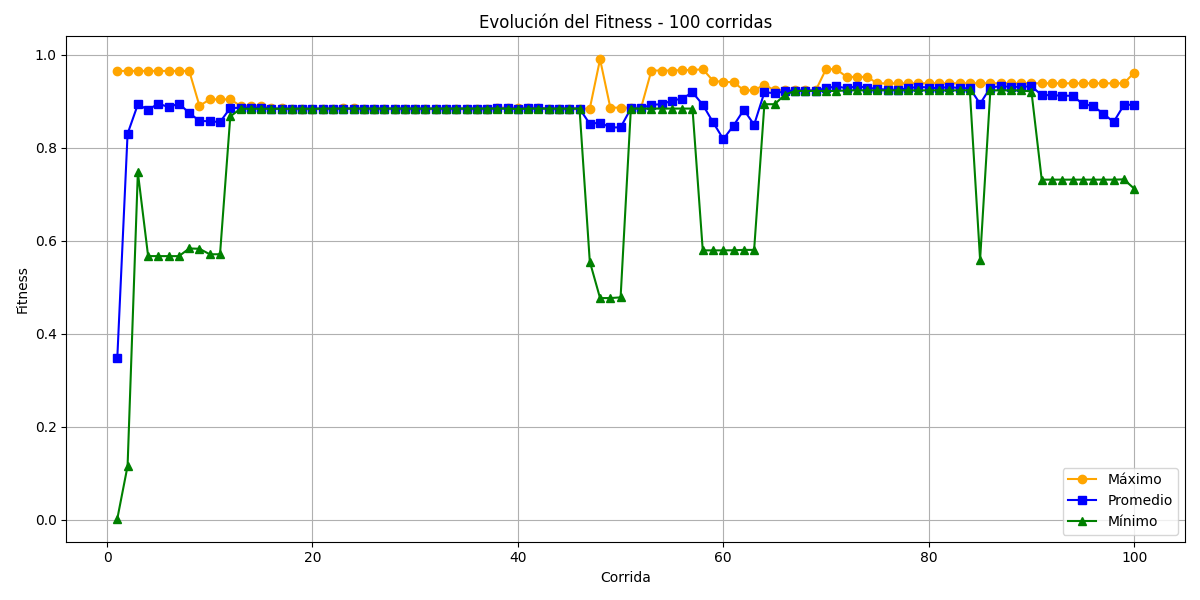
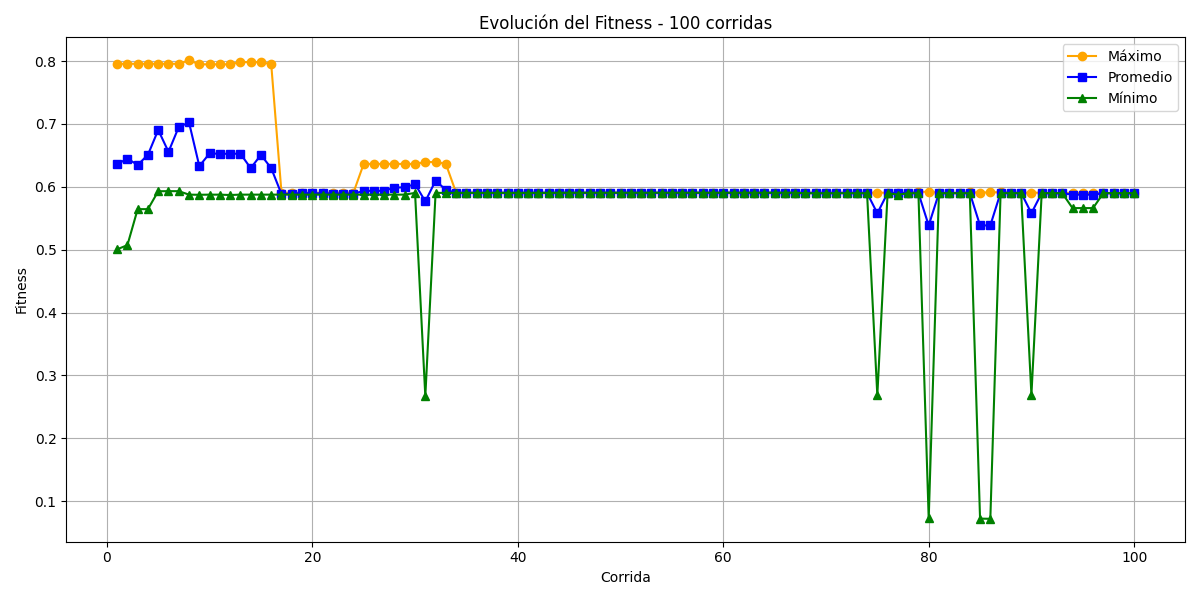
Corrección de errores
Agrego calculo de valores_funcion_objetivos de los hijos al hacer el return de evolve (estabamos pasando los hijos con los valores función objetivo de los padres).
Elitismo: excluyo a los individuos de elite de que puedan volver a ser elegidos. En la seleccion por ruleta, aseguro de que no haya un error outOfIndex

diff --git a/tp1/ag_canonico.py b/tp1/ag_canonico.py
@@ -9,7 +9,6 @@ BIT_LENGTH = 30
 POPULATION_SIZE = 10
 CROSSOVER_PROB = 0.75
 MUTATION_PROB = 0.05
-MAX_GENERATIONS = 20
 MAX_VALUE = 2**BIT_LENGTH - 1
 COEF = MAX_VALUE
 
@@ -97,21 +96,21 @@ def evolve(pop, metodo_seleccion, elitismo):
     funcion_objetivo_values = [funcion_objetivo(x) for x in decoded]
     fit_values = obtener_fitnesses(funcion_objetivo_values)
 
+    next_generation = []
+
     if elitismo == 'f':
     
         if metodo_seleccion == 'r':                                                             
+            #Selecciona a los que serán padres
             seleccionados = roulette_wheel_selection(pop, fit_values)
 
-            next_generation = []
+            # Realiza el cruce y mutación
             for i in range(0, POPULATION_SIZE, 2):
                 padre1, padre2 = seleccionados[i], seleccionados[(i+1) % POPULATION_SIZE]
                 hijo1, hijo2 = one_point_crossover(padre1, padre2)
                 next_generation.extend([mutation(hijo1), mutation(hijo2)])
 
-            return next_generation[:POPULATION_SIZE], funcion_objetivo_values
-        
         elif metodo_seleccion == 't':
-            next_generation = []
             for _ in range(POPULATION_SIZE  // 2):
                 padre1 = torneo_binario_probabilistico(pop, fit_values)
                 padre2 = torneo_binario_probabilistico(pop, fit_values)
@@ -124,32 +123,45 @@ def evolve(pop, metodo_seleccion, elitismo):
                 padre2 = torneo_binario_probabilistico(pop, fit_values)
                 hijo1, _ = one_point_crossover(padre1, padre2)
                 next_generation.append(mutation(hijo1))
-            
-            return next_generation[:POPULATION_SIZE], funcion_objetivo_values
         
-        else:
-            raise ValueError("Método de selección no válido. Use '-s r' para ruleta o '-s t' para torneo.")
+        decoded_next_generation = [binary_to_decimal(ind) for ind in next_generation]
+        funcion_objetivo_values_next_generation = [funcion_objetivo(x) for x in decoded_next_generation]
+
+        return next_generation[:POPULATION_SIZE], funcion_objetivo_values_next_generation
+        
     
     elif elitismo == 't':
         # --- Aplicamos elitismo ---
-        # Paso 1: Seleccionar los 2 mejores cromosomas
-        sorted_fit_values_indices = sorted(range(len(fit_values)), key=lambda i: fit_values[i]) 
-        #Ordena los indices de la lista fit_values, según sus valores de fitness.
-        indice1 = sorted_fit_values_indices[-1] #El índice del mejor individuo
-        indice2 = sorted_fit_values_indices[-2] #El índice del segundo mejor individuo
-        elite_ind1 = pop[indice1]
-        elite_ind2 = pop[indice2]
-        elite_individuals = [elite_ind1, elite_ind2] #GENERALIZARLO CON UN FOR para n individuos
+        n_elite = 2  # cuántos individuos de élite se quieren
 
-        # Paso 2: Generar los 8 hijos restantes
+        # Ordenar los índices según fitness (de menor a mayor si menor es peor)
+        sorted_fit_values_indices = sorted(range(len(fit_values)), key=lambda i: fit_values[i])
+
+        # Obtener los índices de los mejores individuos (los n últimos)
+        elite_indices = sorted_fit_values_indices[-n_elite:]
+
+        # Obtener los individuos élite a partir de sus índices
+        elite_individuals = [pop[i] for i in elite_indices]
+
+        # Crear nuevos arrays excluyendo a los individuos élite
+        indices_elite_set = set(elite_indices)
+        pop_filtrada = [ind for i, ind in enumerate(pop) if i not in indices_elite_set]
+        fit_values_filtrados = [fit for i, fit in enumerate(fit_values) if i not in indices_elite_set]
+
+        #Entonces, nos aseguramos que los hijos restantes no sean los mismos que los de élite
+
+        #Genera los 8 hijos restantes
         num_hijos_necesarios = POPULATION_SIZE - len(elite_individuals)
 
-        if metodo_seleccion == 'r':                                                             
-            seleccionados = roulette_wheel_selection(pop, fit_values)
+        if metodo_seleccion == 'r':  
+            seleccionados = []                                                           
+            while len(seleccionados) < num_hijos_necesarios:
+                nuevos = roulette_wheel_selection(pop_filtrada, fit_values_filtrados)
+                seleccionados.extend(nuevos)
+            seleccionados = seleccionados[:num_hijos_necesarios] # Me aseguro de que len(seleccionados) ≥ num_hijos_necesarios y está bien definido cuando num_hijos_necesarios es impar.
 
-            next_generation = []
             for i in range(0, num_hijos_necesarios, 2):
-                padre1, padre2 = seleccionados[i], seleccionados[(i+1) % POPULATION_SIZE]
+                padre1, padre2 = seleccionados[i], seleccionados[(i+1) % len(seleccionados)]
                 hijo1, hijo2 = one_point_crossover(padre1, padre2)
                 next_generation.extend([mutation(hijo1), mutation(hijo2)])
             
@@ -157,30 +169,28 @@ def evolve(pop, metodo_seleccion, elitismo):
             next_generation = next_generation[:num_hijos_necesarios]
             next_generation = next_generation + elite_individuals
 
-            return next_generation[:POPULATION_SIZE], funcion_objetivo_values
-        
         elif metodo_seleccion == 't':
             next_generation = []
             for _ in range(num_hijos_necesarios  // 2):
-                padre1 = torneo_binario_probabilistico(pop, fit_values)
-                padre2 = torneo_binario_probabilistico(pop, fit_values)
+                padre1 = torneo_binario_probabilistico(pop_filtrada, fit_values_filtrados)
+                padre2 = torneo_binario_probabilistico(pop_filtrada, fit_values_filtrados)
                 hijo1, hijo2 = one_point_crossover(padre1, padre2)
                 next_generation.extend([mutation(hijo1), mutation(hijo2)])
             
-            # Si POPULATION_SIZE es impar, generamos un último hijo
+            # Si num_hijos_necesarios es impar, generamos un último hijo
             if num_hijos_necesarios % 2 == 1:
-                padre1 = torneo_binario_probabilistico(pop, fit_values)
-                padre2 = torneo_binario_probabilistico(pop, fit_values)
+                padre1 = torneo_binario_probabilistico(pop_filtrada, fit_values_filtrados)
+                padre2 = torneo_binario_probabilistico(pop_filtrada, fit_values_filtrados)
                 hijo1, _ = one_point_crossover(padre1, padre2)
                 next_generation.append(mutation(hijo1))
             
             next_generation = next_generation[:num_hijos_necesarios]
             next_generation = next_generation + elite_individuals
             
-            return next_generation[:POPULATION_SIZE], funcion_objetivo_values
-        
-        else:
-            raise ValueError("Método de selección no válido. Use '-s r' para ruleta o '-s t' para torneo.")
+        decoded_next_generation = [binary_to_decimal(ind) for ind in next_generation]
+        funcion_objetivo_values_next_generation = [funcion_objetivo(x) for x in decoded_next_generation]
+
+        return next_generation[:POPULATION_SIZE], funcion_objetivo_values_next_generation
     
     else:
         raise ValueError("Valor de elitismo no válido. Use 't' para usar elitismo o 'f' para no usarlo.")
